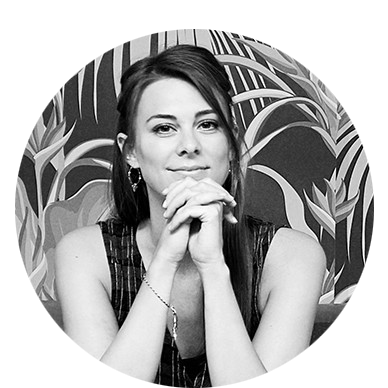
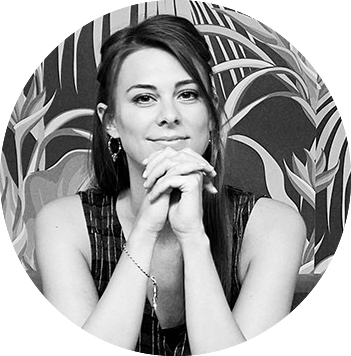
Add style to the team

diff --git a/app/assets/stylesheets/layout.scss b/app/assets/stylesheets/layout.scss
@@ -544,6 +544,31 @@ body.statics.privacy, body.statics.terms {
   }
 }
 
+/**
+* team members
+*/
+
+.flex-container {
+  display: flex;
+  justify-content: center;
+  flex-wrap: wrap;
+}
+
+.team img {
+  width: 130px;
+  margin: 1em;
+  display: inline-block;
+}
+
+.team img:hover {
+  filter: brightness(1.20);
+}
+
+.team p {
+  font-size: 0.8em;
+  letter-spacing: 1px;
+}
+
 @media screen and (min-width: 960px) {
 
   body, p, ol, ul, td {
@@ -754,7 +779,6 @@ body.statics.privacy, body.statics.terms {
     }
   }
 
-
   footer {
 
     address, p {
@@ -762,7 +786,6 @@ body.statics.privacy, body.statics.terms {
     }
 
   }
-
 
 }
 
